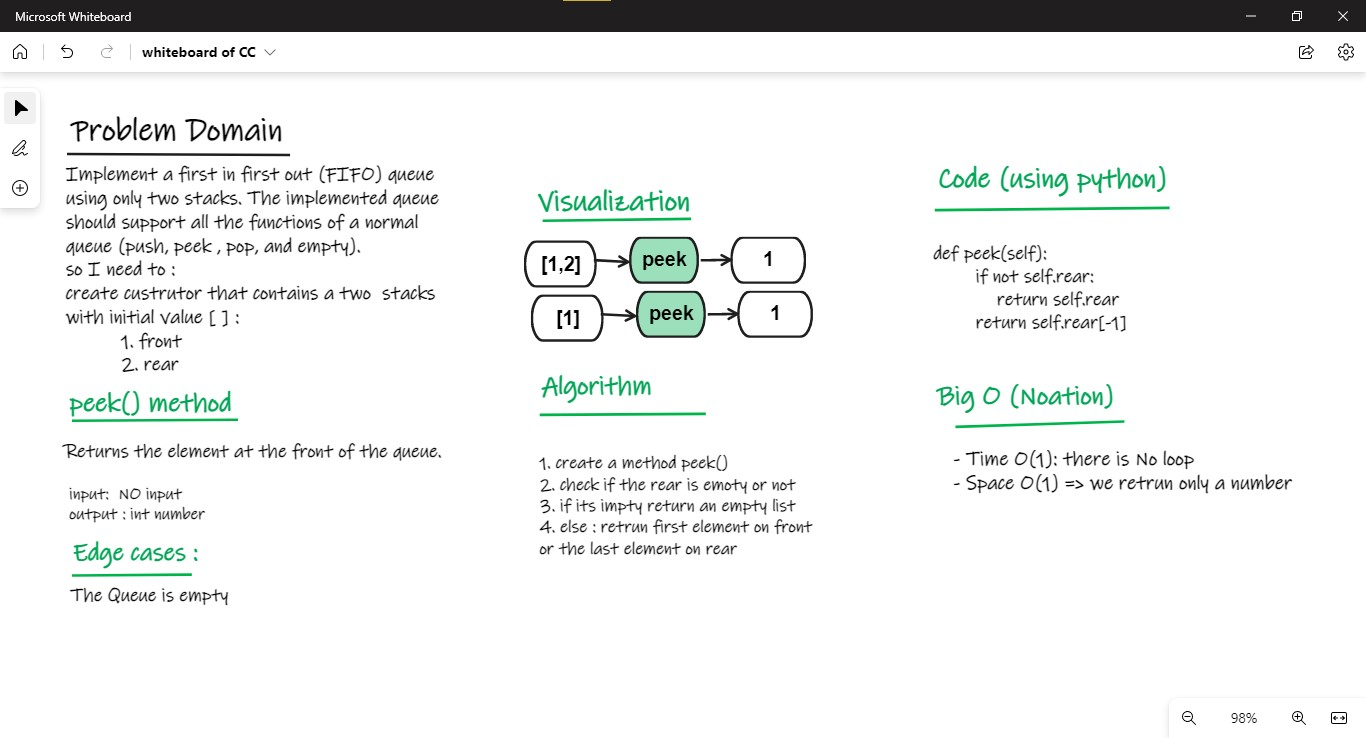
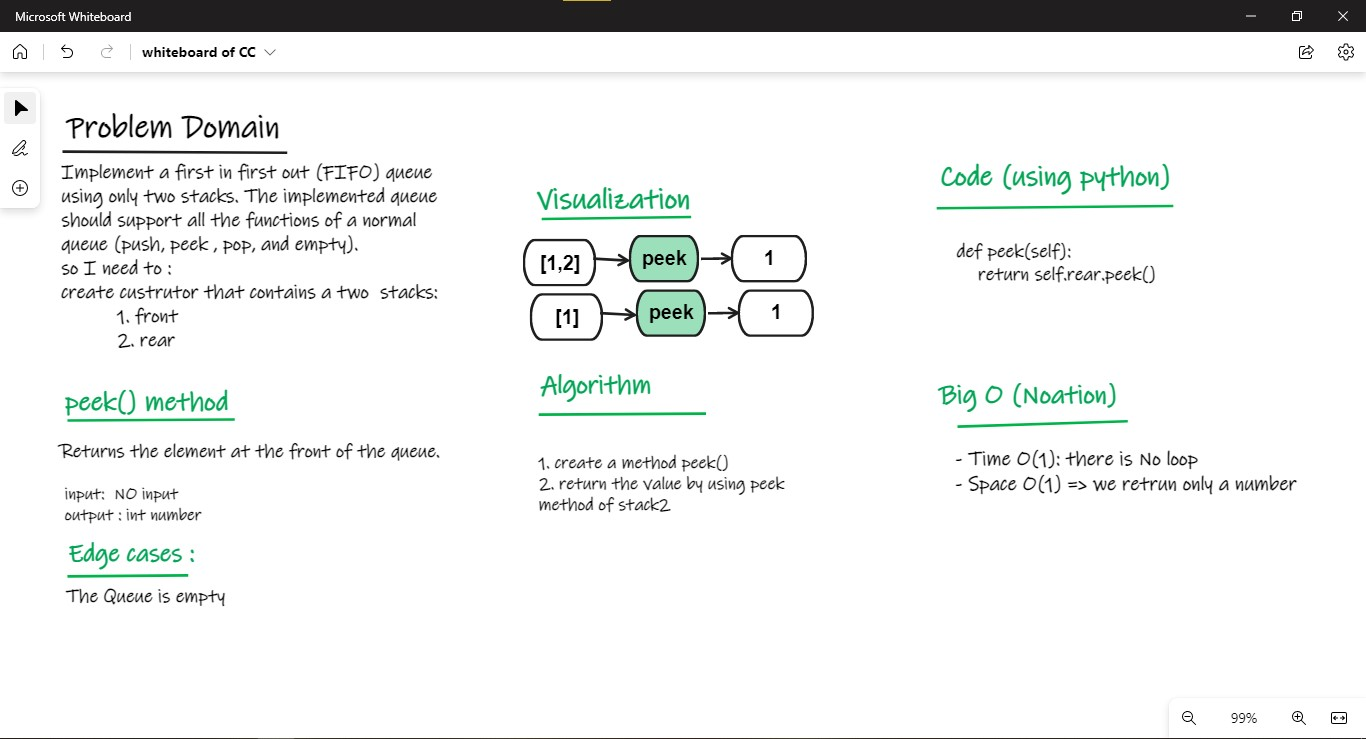
refactor: create stack class and use it to implement queue

diff --git a/python/code_challenges/stack_queue/challenge01/challenge01.py b/python/code_challenges/stack_queue/challenge01/challenge01.py
@@ -1,5 +1,5 @@
 # Write here the code challenge solution
-
+from Classes import Stack
 
 # #################### MyQueue class #################### #  
 
@@ -10,68 +10,57 @@ class MyQueue:
         2. pop() Removes the element from the front of the queue and returns it.
         3. peek() Returns the element at the front of the queue.
         4. empty() Returns true if the queue is empty, false otherwise
-        5. get_front() Returns the list of elements of the first stack
-        6. get_rear() Returns the list of elements of the second stack
+        5. get_queue() Returns the list of elements of the queue
     '''
     def __init__(self):
 
-        self.front = [] # first stack
-        self.rear = []  # second stack 
+        self.front = Stack() # first stack
+        self.rear = Stack()  # second stack 
+        self.queue=[]
     
     def push(self, value):
-        if len(self.rear) != 0:
-            for item in range(len(self.rear)):
-                self.front.append(self.rear.pop())
-        self.front.append(value)
-
-        for item in range(len(self.front)):
-            self.rear.append(self.front.pop())
+        if self.rear.get_size() != 0:
+            for item in range(self.rear.get_size()):
+                self.front.push(self.rear.pop())
+        self.queue.append(value)
+        self.front.push(value)
+        for item in range(self.front.get_size()):
+            self.rear.push(self.front.pop())
    
     def pop(self):
         if not self.rear:
             return self.rear 
+        self.queue.pop(0)
         return self.rear.pop()
 
     def peek(self):
-        if not self.rear:
-            return self.rear
-        return self.rear[-1]
+        return self.rear.peek()
 
     def empty(self):
-        return len(self.front)== 0 and len(self.rear)== 0
-    
-    def get_front(self):
-        if len(self.rear) != 0:
-            for item in range(len(self.rear)):
-                self.front.append(self.rear.pop())
-        return self.front
+        return self.rear.empty()
 
-    def get_rear(self):
-        if len(self.front) != 0:
-            for item in range(len(self.front)):
-                self.rear.append(self.front.pop())
-        return self.rear
+    def get_queue(self):
+        return self.queue
 
 if __name__=="__main__":
 
     print('\n************************************** \n\tQueue Class\n**************************************\n')
     myQueue = MyQueue()
     myQueue.push(1)
-    print("We have a Queue with first push item =>" ,myQueue.get_front(),'\n')
+    print("We have a Queue with first push item =>" ,myQueue.get_queue(),'\n')
     myQueue.push(2)
-    print("We have a Queue with second push item =>" ,myQueue.get_front(),'\n')
+    print("We have a Queue with second push item =>" ,myQueue.get_queue(),'\n')
     myQueue.push(3)
     myQueue.push(4)
     print("Now push 3 and 4 \n")
-    print('The first Stack will be => ',myQueue.get_front(),'\n')
-    print('The second Stack will be => ',myQueue.get_rear(),'\n')
+    print('The queue will be => ',myQueue.get_queue(),'\n')
     print('**************************************\n')
     print('pop the Queue with "FIFO"=>',myQueue.pop(),'\n')
     print('peek the Queue item with "FIFO"=>',myQueue.peek(),'\n')
     print('pop the Queue again =>',myQueue.pop(),'\n')
     print('**************************************\n')
     print('peek the Queue item with "FIFO"=>',myQueue.peek(),'\n')
-    print('The first Stack will be => ',myQueue.get_front(),'\n')
-    print('The second Stack will be => ',myQueue.get_rear(),'\n')
-    print('*****************************************************************\n')
+    print('The queue will be => ',myQueue.get_queue(),'\n')
+    print('Is the queue empty',myQueue.empty())
+    print('\n*****************************************************************\n')
     

diff --git a/python/code_challenges/stack_queue/challenge01/Classes.py b/python/code_challenges/stack_queue/challenge01/Classes.py
@@ -1,0 +1,57 @@
+# #################### Node class #################### #  
+
+
+class Node:
+    '''
+    A Class that creates node with pointer refers to None
+    '''
+
+    def __init__(self,vlaue):
+        self.next = None
+        self.value = vlaue
+
+
+# #################### Stack class #################### #  
+
+class Stack:
+    '''
+    A class that uses LinkedList to implement stack , and it has methods:
+    1 . constructor that has top argument and size
+    2. push(): takes value as argument, and create a node and append it into stack, and increase the size by one 
+    3. pop(): Removes the element from the back of the stack and returns it, and decrease the size by one 
+    4. peek(): Returns the element at the back of the stack.
+    5. empty(): returns True if the stack is empty
+    6. get_size(): returns the size of the stack
+    '''
+
+    def __init__(self):
+        self.top = None
+        self.size = 0
+
+    def push(self,value):
+        node = Node(value)
+        if self.top:
+            node.next = self.top
+        self.top = node
+        self.size += 1
+
+    def pop(self):
+        if self.top:
+            temp = self.top
+            self.top = self.top.next
+            self.size -= 1
+            return temp.value
+        else:
+            return("This stack is empty")
+    
+    def peek(self):
+        if self.top:
+            return self.top.value
+        else:
+            return("This stack is empty")
+
+    def empty(self):
+        return self.size == 0
+
+    def get_size(self):
+        return self.size

diff --git a/python/code_challenges/stack_queue/challenge01/test_challenge01.py b/python/code_challenges/stack_queue/challenge01/test_challenge01.py
@@ -8,32 +8,35 @@ def test_queue_push(queue1):
     queue1.push(1)
     queue1.push(2)
     queue1.push(3)
-    assert queue1.get_rear()==[3,2,1]
+    assert queue1.get_queue()==[1,2,3]
     queue1.push(4)
     queue1.push(5)
     queue1.push(6)
-    assert queue1.get_front()==[1,2,3,4,5,6]
+    assert queue1.get_queue()==[1,2,3,4,5,6]
 
 def test_queue_pop(queue1):
     queue1.push(0)
     queue1.push(1)
     queue1.push(2)
-    queue1.pop()
-    assert queue1.get_front()==[1,2]
+    assert queue1.pop()==0
+    assert queue1.get_queue()==[1,2]
     queue1.push(3)
     queue1.push(4)
     queue1.push(5)
-    queue1.pop()
-    queue1.pop()
-    assert queue1.get_front()==[3, 4, 5]
+    assert queue1.pop()==1
+    assert queue1.pop()==2
+    assert queue1.get_queue()==[3, 4, 5]
+
 def test_queue_peek(queue1):
     queue1.push(0)
     queue1.push(1)
     assert queue1.peek()==0
-    assert queue1.get_front()==[0,1]
+    assert queue1.get_queue()==[0,1]
 
 def test_queue_empty(queue1):
     assert queue1.empty()==True
+    queue1.push(1)
+    assert queue1.empty()==False
 
 # #################### Fixture #################### #  
 

diff --git a/python/code_challenges/stack_queue/challenge01/whiteboard.md b/python/code_challenges/stack_queue/challenge01/whiteboard.md
@@ -1,15 +1,16 @@
 # Queue :
 
 ## Challenge01 - Implement Queue Using Stack
+- first of all create a Classes.py to create a node and stack classes and implement stack as linked list.
 - Create a myQueue class with two stacks that contains:
-    - A constructor with two stacks "implement stack by list"
+    - A constructor with two stacks 
         1. front of the queue
         2. rear of the queue
+        3. queue with initial value []
     - push() method to  push element x to the back of the queue
     -  pop() method to remove the element from the front of the queue and returns it.
-    - empty() methods that Returns true if the queue is empty, false otherwise
-    - get_front() that returns the list of elements of the first stack
-    - get_rear() that returns the list of elements of the second stack
+    - empty() method that returns true if the queue is empty, false otherwise
+    - get_queue() method returns the list of elements of the queue
 - test my function by using pytest, and create a test function inside test_Challenge01.py with fixture. 
 
 
